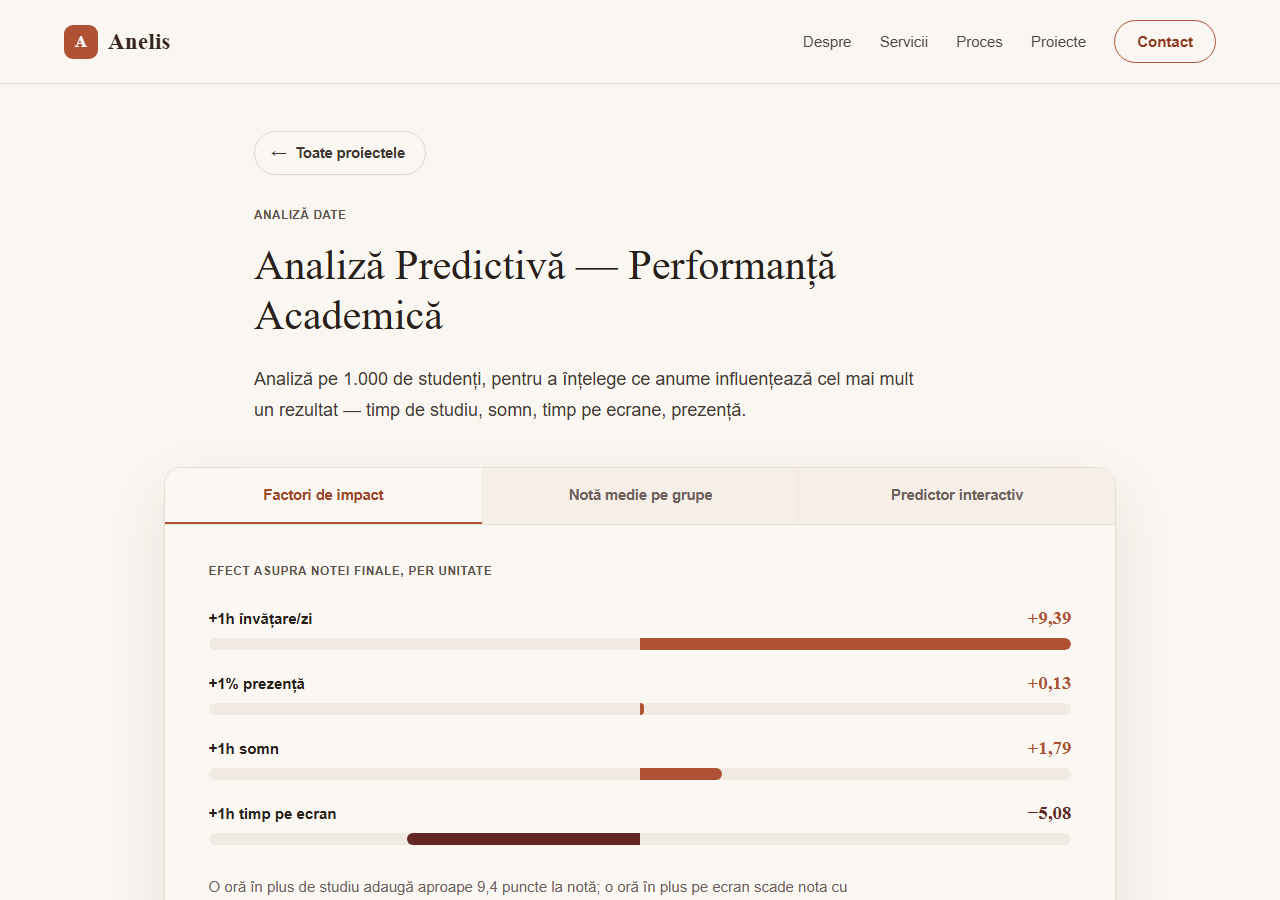
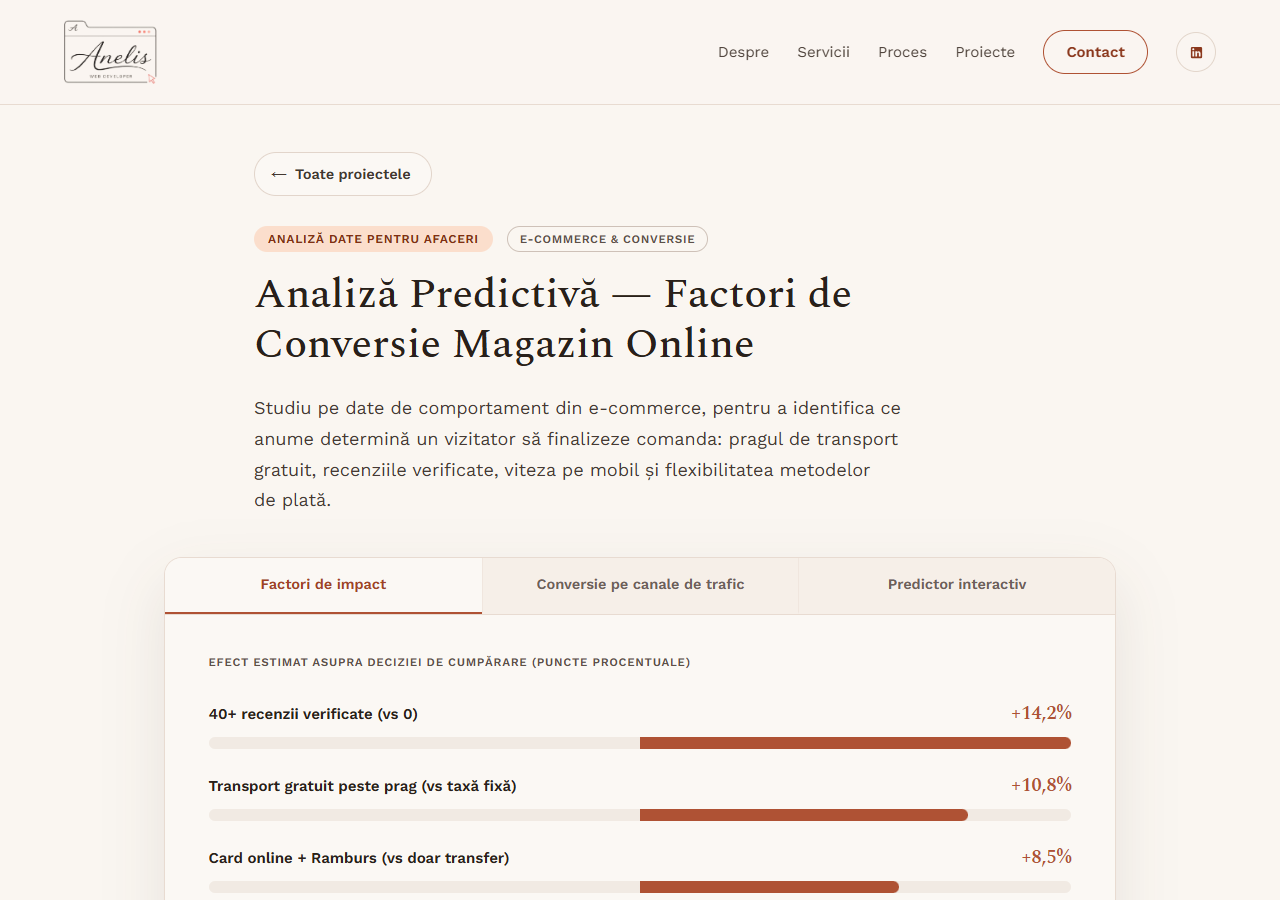
schimbare de design

diff --git a/index.html b/index.html
@@ -440,7 +440,7 @@ header.is-scrolled img{height:40px !important;}
                 <div style="display:flex;align-items:center;justify-content:space-between;animation:procesPop 0.18s ease-out both;animation-delay:0.12s;">
                   <div style="display:flex;align-items:center;gap:6px;">
                     <span style="width:6px;height:6px;border-radius:50%;background:oklch(0.60 0.08 145);"></span>
-                    <span style="font-size:10.5px;font-weight:700;color:oklch(0.3 0.02 50);">Google Lighthouse</span>
+                    <span title="Instrument oficial Google de testare a site-urilor" style="font-size:10.5px;font-weight:700;color:oklch(0.3 0.02 50);">Google Lighthouse</span>
                   </div>
                   <span style="font-size:9.5px;font-weight:600;color:oklch(0.42 0.08 145);background:oklch(0.95 0.025 145);border:1px solid oklch(0.89 0.03 145);padding:1.5px 7px;border-radius:4px;">Excelent</span>
                 </div>
@@ -456,7 +456,7 @@ header.is-scrolled img{height:40px !important;}
                   </div>
                   <div style="display:flex;flex-direction:column;align-items:center;gap:3px;animation:procesPop 0.18s ease-out both;animation-delay:0.21s;">
                     <div style="width:30px;height:30px;border-radius:50%;border:1.5px solid oklch(0.70 0.07 145);background:oklch(0.965 0.018 145);color:oklch(0.38 0.075 145);font-size:11px;font-weight:700;display:flex;align-items:center;justify-content:center;font-family:'Work Sans',sans-serif;">100</div>
-                    <span style="font-size:9px;font-weight:600;color:oklch(0.44 0.02 50);">Practici</span>
+                    <span style="font-size:9px;font-weight:600;color:oklch(0.44 0.02 50);">Calitate</span>
                   </div>
                   <div style="display:flex;flex-direction:column;align-items:center;gap:3px;animation:procesPop 0.18s ease-out both;animation-delay:0.24s;">
                     <div style="width:30px;height:30px;border-radius:50%;border:1.5px solid oklch(0.70 0.07 145);background:oklch(0.965 0.018 145);color:oklch(0.38 0.075 145);font-size:11px;font-weight:700;display:flex;align-items:center;justify-content:center;font-family:'Work Sans',sans-serif;">100</div>

diff --git a/Proiect Analiza Date.dc.html b/Proiect Analiza Date.dc.html
@@ -261,13 +261,13 @@ const IMPACT = [
   { name: 'Transport gratuit peste prag (vs taxă fixă)', value: 10.8 },
   { name: 'Card online + Ramburs (vs doar transfer)', value: 8.5 },
   { name: 'Viteză lentă pe mobil (>4s)', value: -12.4 },
-  { name: 'Checkout lung / fără comandă rapidă', value: -7.6 }
+  { name: 'Finalizarea comenzii lungă / fără opțiune rapidă', value: -7.6 }
 ];
 
 const GROUPS = [
   { gen: 'Căutare Google (SEO)', faraJob: 2.85, cuJob: 5.92 },
   { gen: 'Social Media (Rețele)', faraJob: 1.58, cuJob: 3.75 },
-  { gen: 'Direct & Recomandări', faraJob: 3.20, cuJob: 7.10 }
+  { gen: 'Acces direct / prin recomandare', faraJob: 3.20, cuJob: 7.10 }
 ];
 
 const ro = (n, d) => n.toFixed(d).replace('.', ',');
